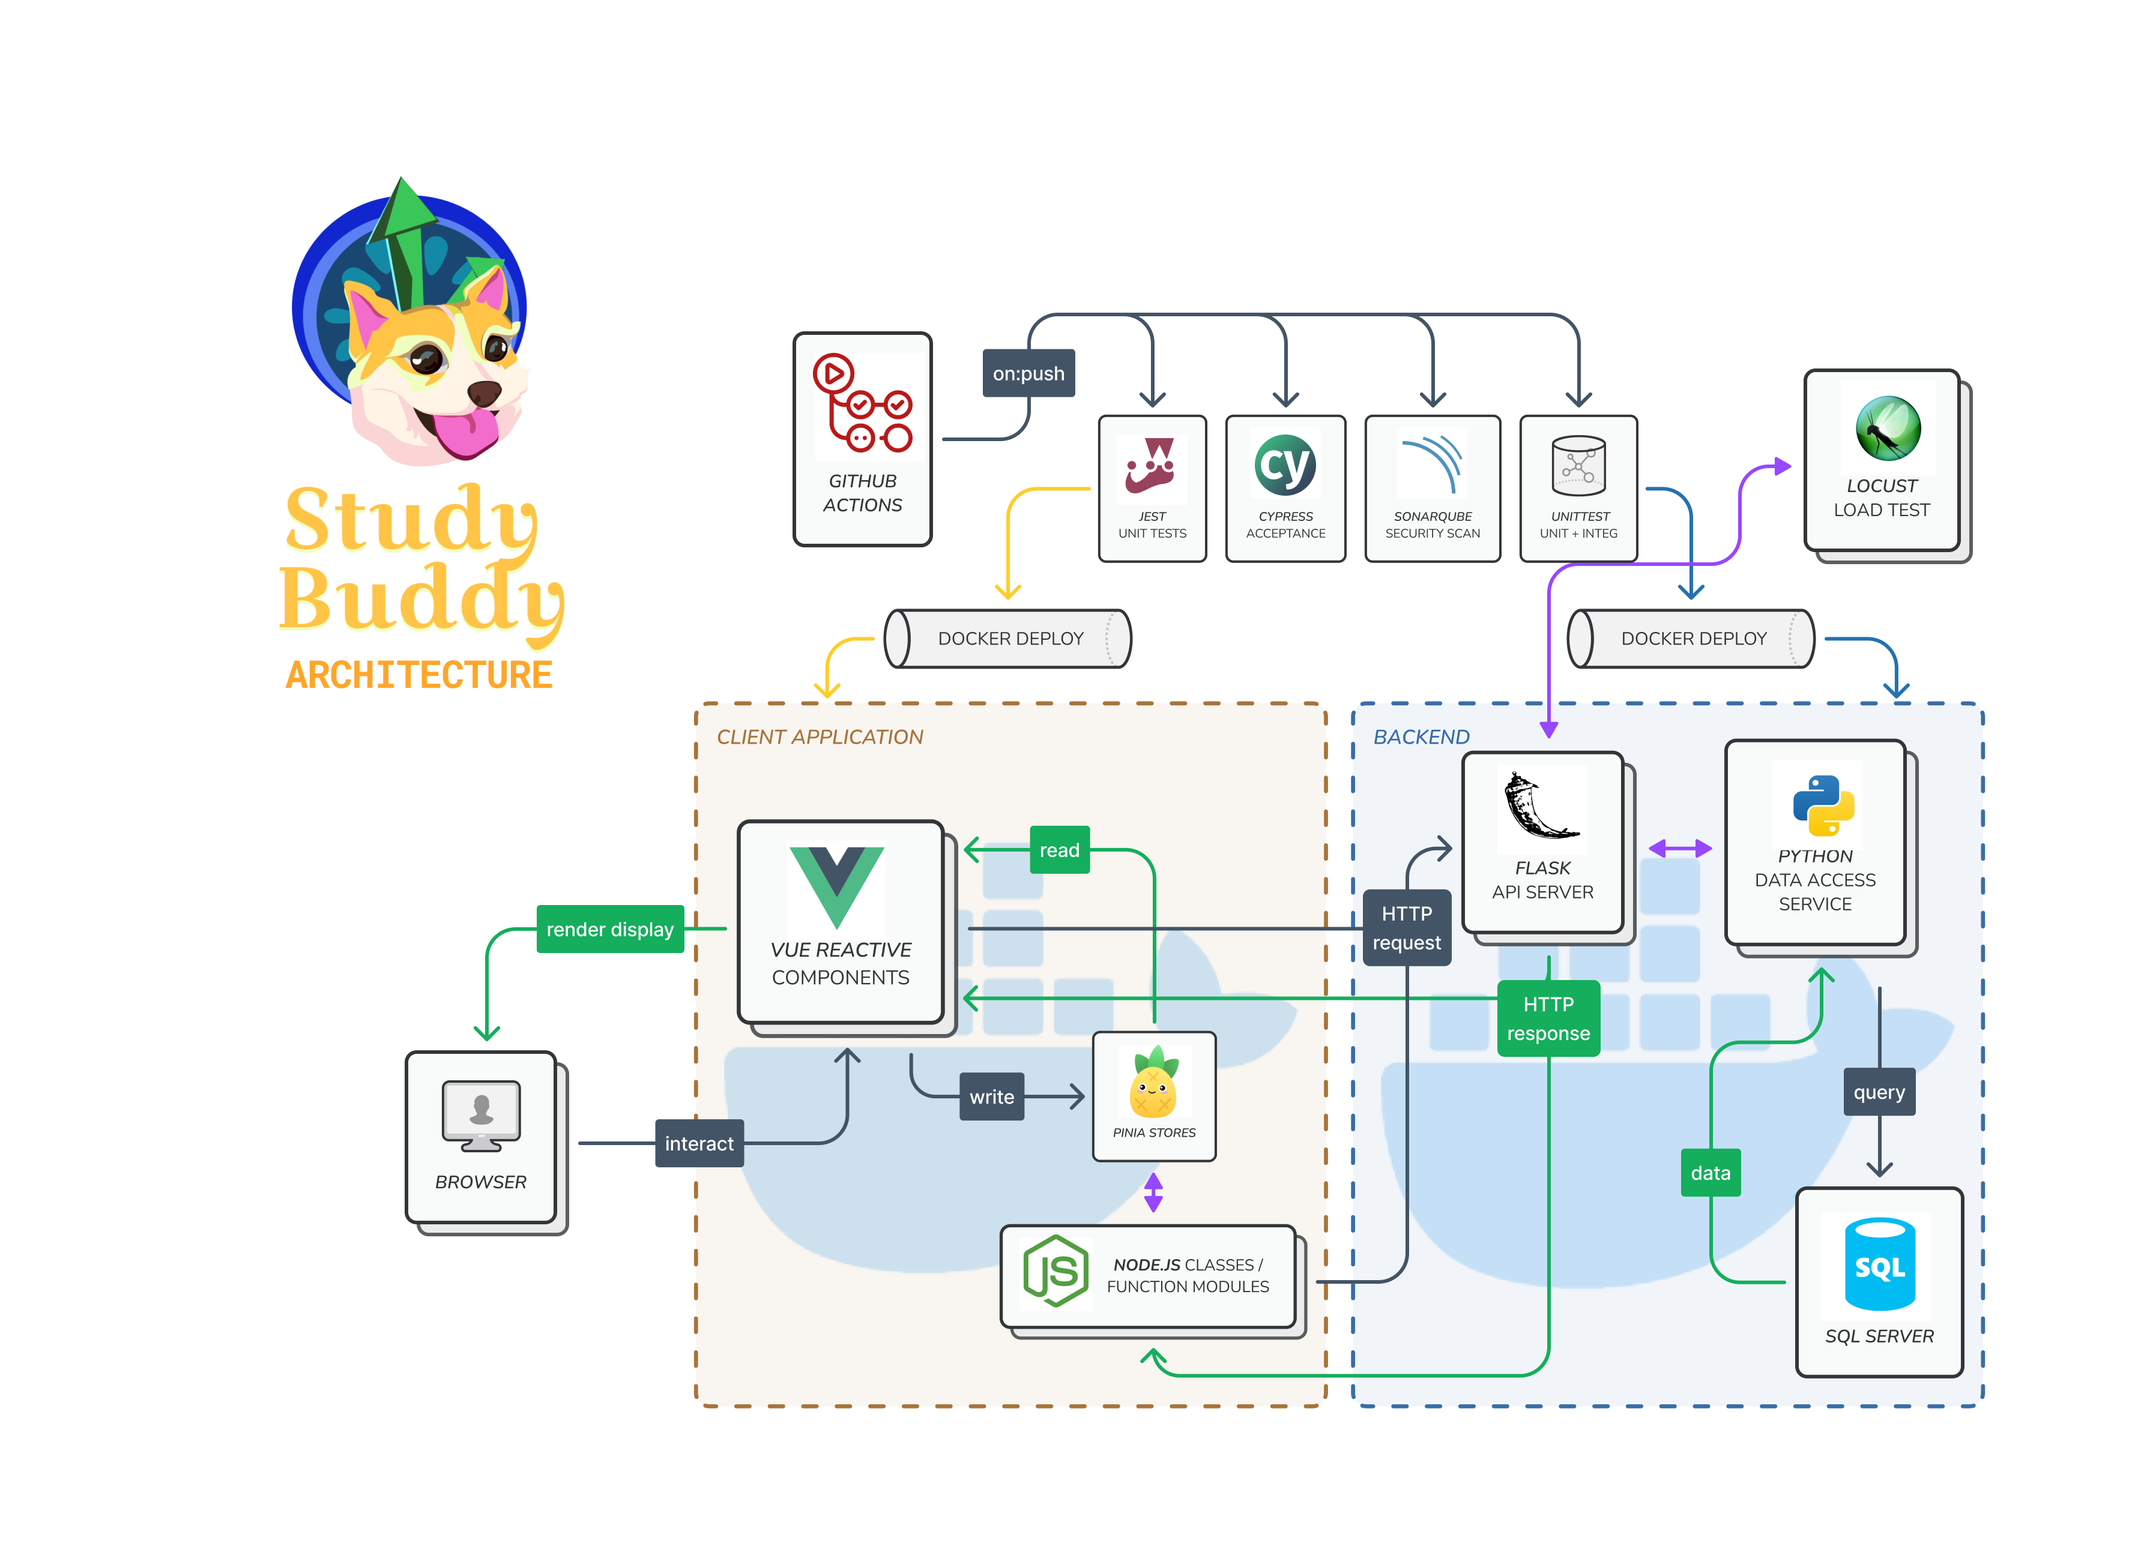
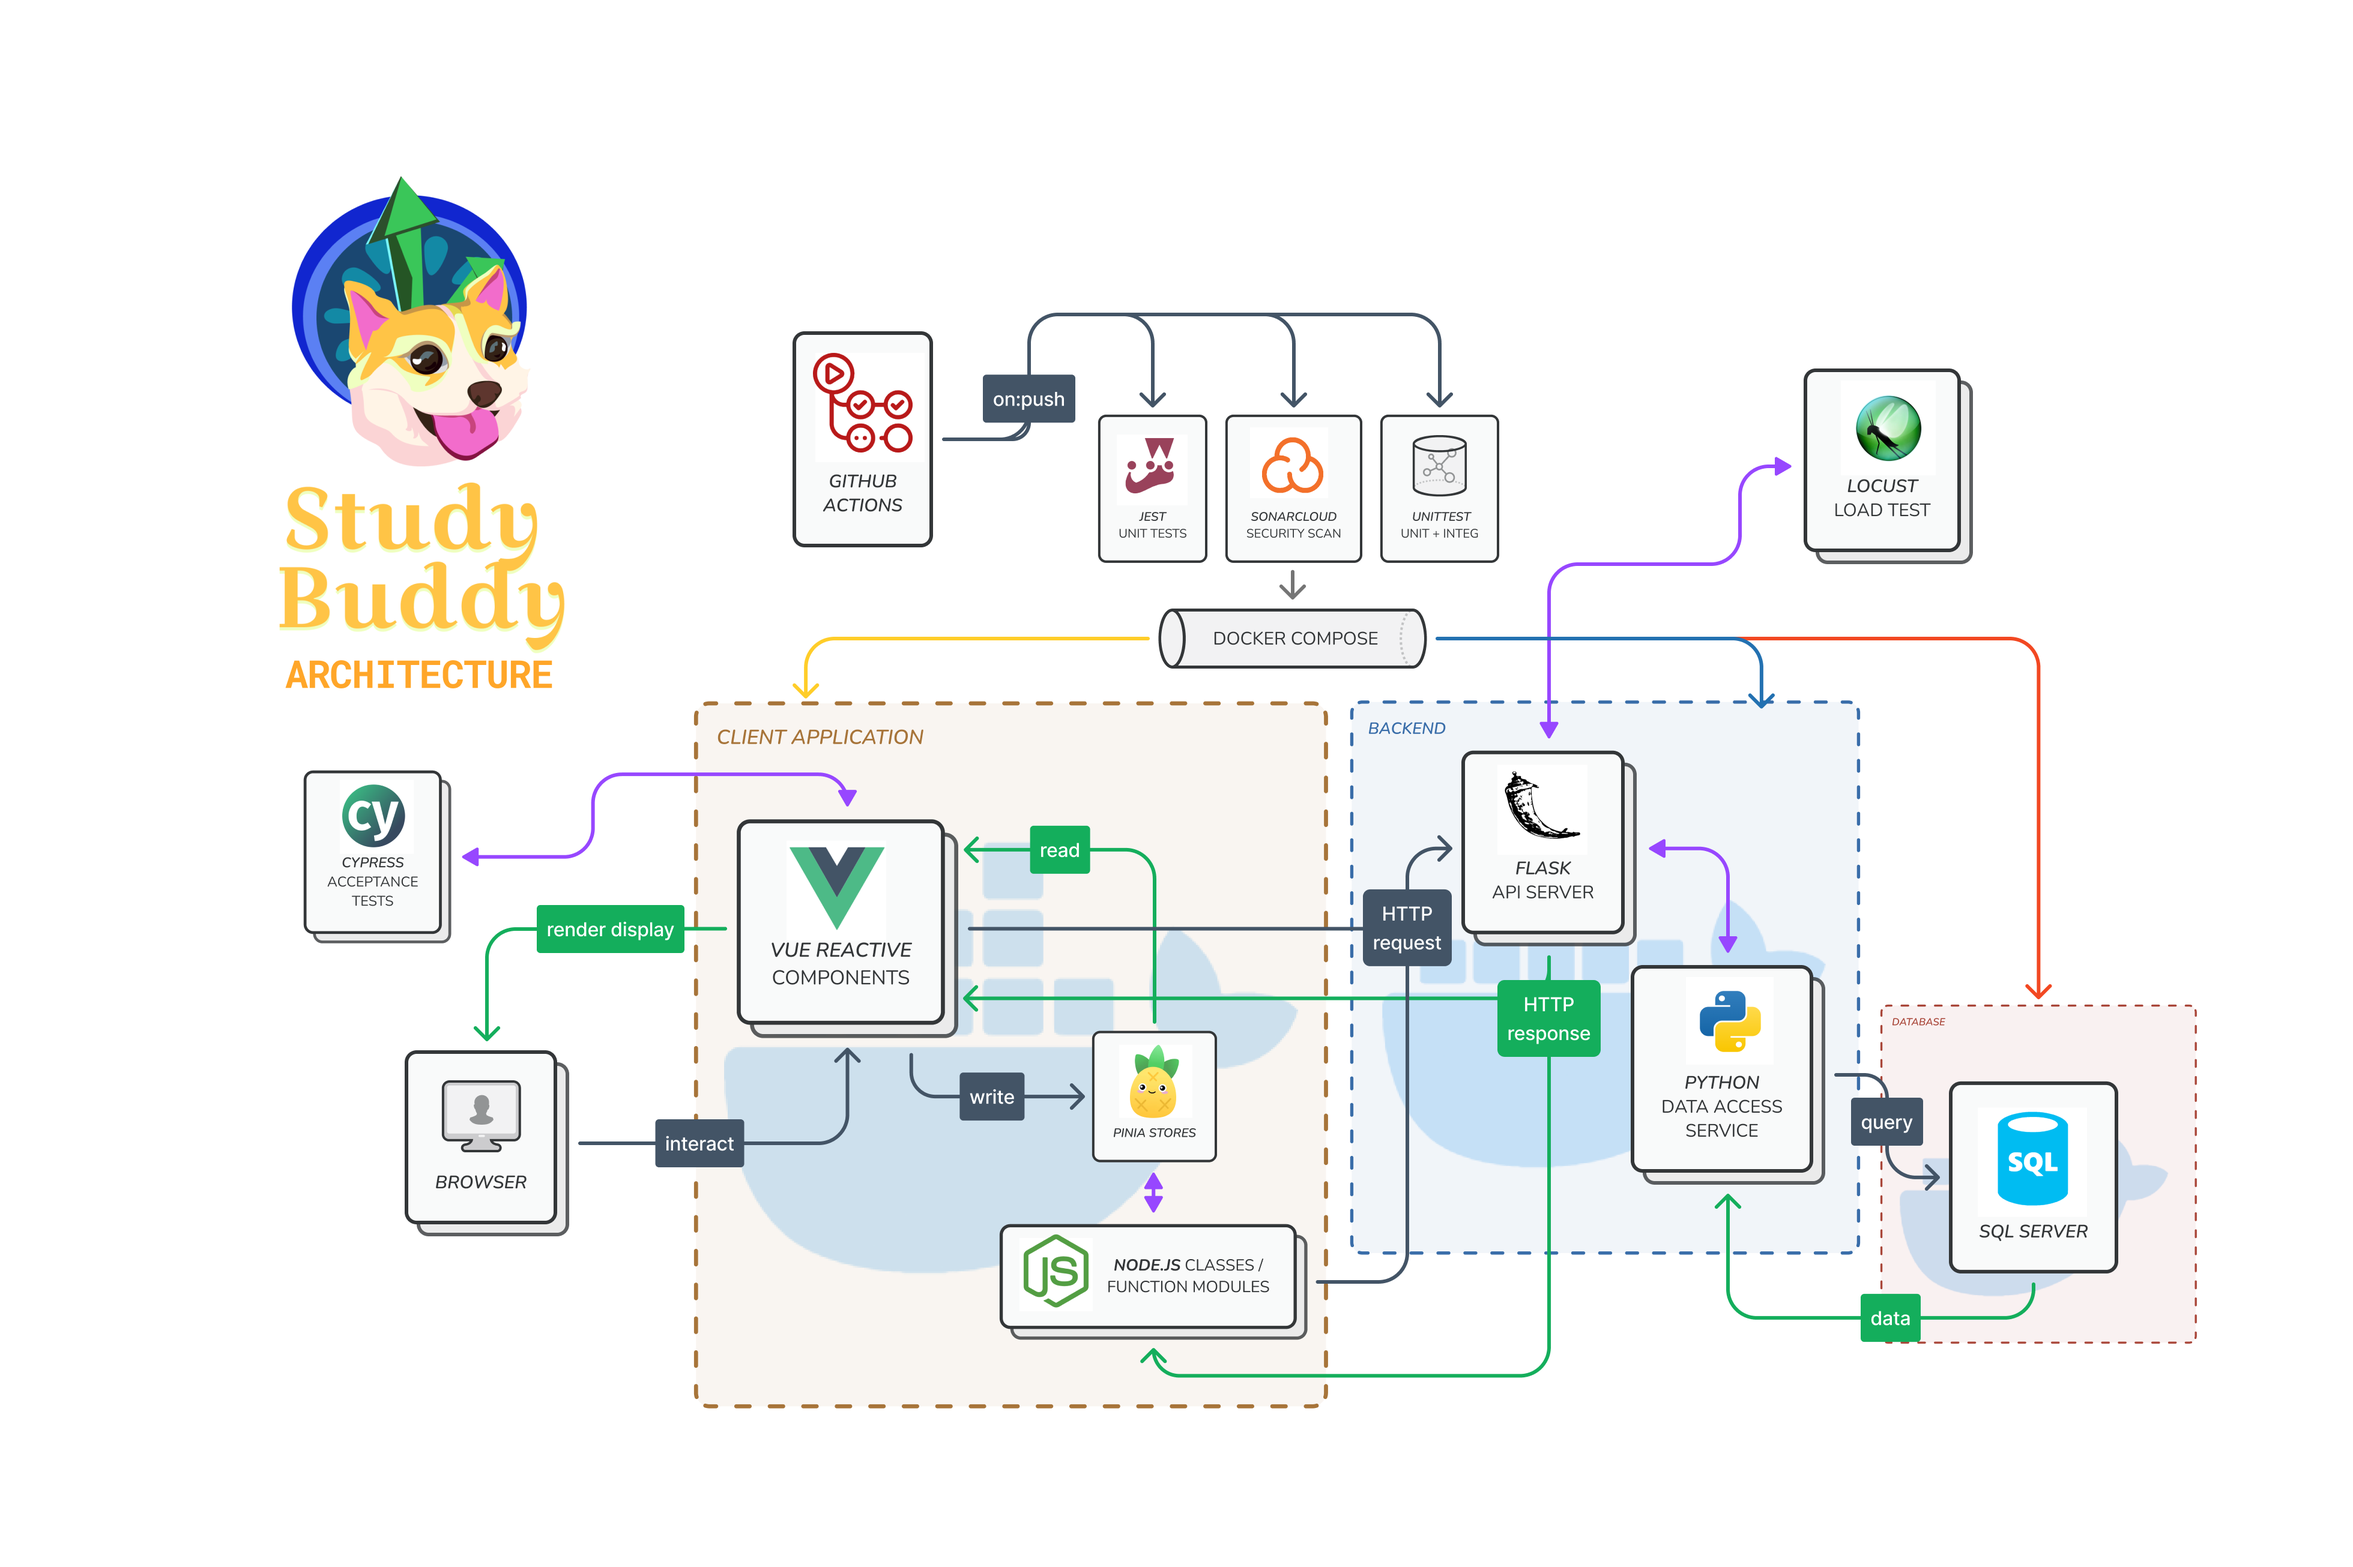
Update final architecture and README

diff --git a/README.md b/README.md
@@ -76,7 +76,7 @@ This feature will allow for users to level up their buddy.
 
 ### Other Utilities
 
-- Security scanning: **SonarQube**
+- Security scanning: **SonarCloud**
 - Load Testing: **Locust**
 
 ## Software Architecture
